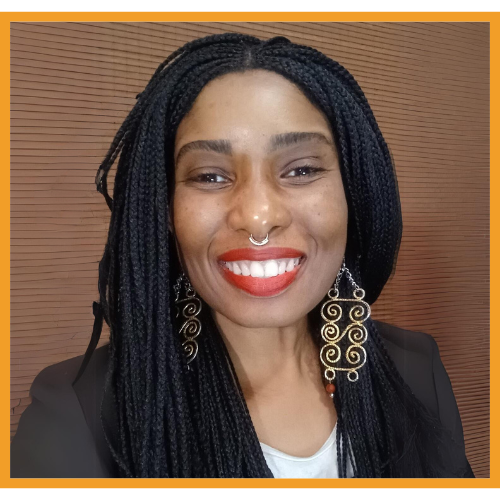
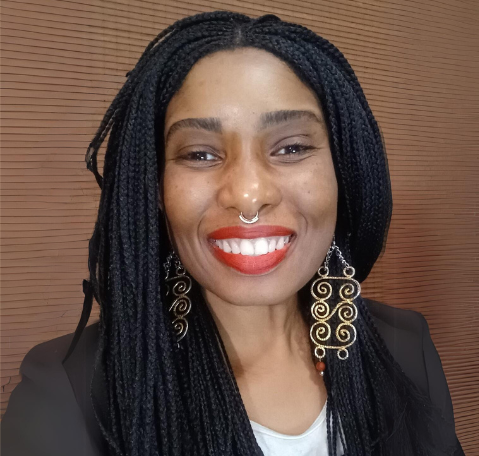
fix image outline

diff --git a/src/pages/Projects.tsx b/src/pages/Projects.tsx
@@ -235,23 +235,17 @@ const Projects = () => {
                   </h3>
 
                   <div className="mt-6 rounded-2xl border border-border bg-card p-6 shadow-card">
-                    <div className="grid gap-8 lg:grid-cols-2">
-                      <div className="space-y-8 lg:pr-6">
+                    <div className="lg:grid lg:grid-cols-2 lg:gap-8">
+                      <div className="space-y-6 lg:space-y-8 lg:pr-6">
                         <FadeInInView amount={0.08} delay={0.08}>
                           <div className="mt-2 flex items-start gap-3">
-                            <div className="min-w-0">
-                              <div className="flex items-start gap-3">
-                                <div className="grid h-9 w-9 flex-none shrink-0 place-items-center rounded-full border border-border bg-background text-xs font-semibold text-foreground shadow-sm">
-                                  1
-                                </div>
-                                <p className="text-2xl font-medium leading-tight text-brand-navy">
-                                  Off-the-shelf toys require:
-                                </p>
-                              </div>
-                              <ul className="mt-3 ml-12 list-disc space-y-1 pl-5 text-2xl leading-tight text-brand-navy">
-                                <li>Fine motor dexterity</li>
-                                <li>Grip strength</li>
-                              </ul>
+                            <div className="grid h-9 w-9 flex-none shrink-0 place-items-center rounded-full border border-border bg-background text-xs font-semibold text-foreground shadow-sm">
+                              1
+                            </div>
+                            <div className="min-w-0 flex-1">
+                              <p className="text-[14px] font-normal leading-[1.35] text-brand-navy lg:text-2xl lg:leading-tight">
+                                Off-the-shelf toys require fine motor dexterity and grip strength.
+                              </p>
                             </div>
                             <img
                               src={`${import.meta.env.BASE_URL}projects/adapt-toy-3.jpeg`}
@@ -259,26 +253,20 @@ const Projects = () => {
                               loading="lazy"
                               width={170}
                               height={170}
-                              className="h-24 w-24 flex-none object-contain"
+                              className="h-20 w-20 flex-none object-contain lg:h-24 lg:w-24"
                             />
                           </div>
                         </FadeInInView>
 
                         <FadeInInView amount={0.08} delay={0.12} className="lg:pl-24 lg:pt-2">
                           <div className="mt-2 flex items-start gap-3">
-                            <div className="min-w-0">
-                              <div className="flex items-start gap-3">
-                                <div className="grid h-9 w-9 flex-none shrink-0 place-items-center rounded-full border border-border bg-background text-xs font-semibold text-foreground shadow-sm">
-                                  2
-                                </div>
-                                <p className="text-2xl font-medium leading-tight text-brand-navy">
-                                  Many kids experience:
-                                </p>
-                              </div>
-                              <ul className="mt-3 ml-12 list-disc space-y-1 pl-5 text-2xl leading-tight text-brand-navy">
-                                <li>Less strength</li>
-                                <li>Limited motor control</li>
-                              </ul>
+                            <div className="grid h-9 w-9 flex-none shrink-0 place-items-center rounded-full border border-border bg-background text-xs font-semibold text-foreground shadow-sm">
+                              2
+                            </div>
+                            <div className="min-w-0 flex-1">
+                              <p className="text-[14px] font-medium leading-[1.35] text-brand-navy lg:text-2xl lg:leading-tight">
+                                Many kids experience less strength and limited motor control.
+                              </p>
                             </div>
                             <img
                               src={`${import.meta.env.BASE_URL}projects/adapt-toy-4.jpeg`}
@@ -286,28 +274,22 @@ const Projects = () => {
                               loading="lazy"
                               width={170}
                               height={170}
-                              className="h-24 w-24 flex-none object-contain"
+                              className="h-20 w-20 flex-none object-contain lg:h-24 lg:w-24"
                             />
                           </div>
                         </FadeInInView>
                       </div>
 
-                      <div className="space-y-8 lg:pt-10 lg:pl-2">
+                      <div className="mt-6 space-y-6 lg:mt-0 lg:space-y-8 lg:pt-10 lg:pl-2">
                         <FadeInInView amount={0.08} delay={0.16}>
                           <div className="mt-2 flex items-start gap-3">
-                            <div className="min-w-0">
-                              <div className="flex items-start gap-3">
-                                <div className="grid h-9 w-9 flex-none shrink-0 place-items-center rounded-full border border-border bg-background text-xs font-semibold text-foreground shadow-sm">
-                                  3
-                                </div>
-                                <p className="text-2xl font-medium leading-tight text-brand-navy">
-                                  For many kids this can mean:
-                                </p>
-                              </div>
-                              <ul className="mt-3 ml-12 list-disc space-y-1 pl-5 text-2xl leading-tight text-brand-navy">
-                                <li>Fatigue</li>
-                                <li>Frustration</li>
-                              </ul>
+                            <div className="grid h-9 w-9 flex-none shrink-0 place-items-center rounded-full border border-border bg-background text-xs font-semibold text-foreground shadow-sm">
+                              3
+                            </div>
+                            <div className="min-w-0 flex-1">
+                              <p className="text-[14px] font-medium leading-[1.35] text-brand-navy lg:text-2xl lg:leading-tight">
+                                For many kids this can mean fatigue and frustration.
+                              </p>
                             </div>
                             <img
                               src={`${import.meta.env.BASE_URL}projects/adapt-toy-6.jpeg`}
@@ -315,23 +297,20 @@ const Projects = () => {
                               loading="lazy"
                               width={170}
                               height={170}
-                              className="h-24 w-24 flex-none object-contain"
+                              className="h-20 w-20 flex-none object-contain lg:h-24 lg:w-24"
                             />
                           </div>
                         </FadeInInView>
 
                         <FadeInInView amount={0.08} delay={0.2} className="lg:pl-16 lg:pt-2">
                           <div className="mt-2 flex items-start gap-3">
-                            <div className="min-w-0">
-                              <div className="flex items-start gap-3">
-                                <div className="grid h-9 w-9 flex-none shrink-0 place-items-center rounded-full border border-border bg-background text-xs font-semibold text-foreground shadow-sm">
-                                  4
-                                </div>
-                                <p className="text-2xl font-medium leading-tight text-brand-navy">
-                                  Button switches are often easier to use, and give more children the ability to
-                                  play.
-                                </p>
-                              </div>
+                            <div className="grid h-9 w-9 flex-none shrink-0 place-items-center rounded-full border border-border bg-background text-xs font-semibold text-foreground shadow-sm">
+                              4
+                            </div>
+                            <div className="min-w-0 flex-1">
+                              <p className="text-[14px] font-medium leading-[1.35] text-brand-navy lg:text-2xl lg:leading-tight">
+                                Button switches are often easier to use, and give more children the ability to play.
+                              </p>
                             </div>
                             <img
                               src={`${import.meta.env.BASE_URL}projects/adapt-toy-5.jpeg`}
@@ -339,7 +318,7 @@ const Projects = () => {
                               loading="lazy"
                               width={170}
                               height={170}
-                              className="h-24 w-24 flex-none object-contain"
+                              className="h-20 w-20 flex-none object-contain lg:h-24 lg:w-24"
                             />
                           </div>
                         </FadeInInView>

diff --git a/src/pages/Team.tsx b/src/pages/Team.tsx
@@ -12,6 +12,8 @@ interface Member {
   nameSuffix?: string;
   role: string;
   major: string;
+  /** Optional explicit slug/path segment when photo filename differs from normalized name. */
+  photoSlug?: string;
 }
 
 const executive: Member[] = [
@@ -36,7 +38,12 @@ const executiveBoard: Member[] = [
   { name: "Dr. Allison Jones", role: "Executive Board", major: "Carle Illinois College of Medicine" },
   { name: "Dr. Ruby Mendenhall", role: "Executive Board", major: "Carle Illinois College of Medicine" },
   { name: "Dr. Deana McDonagh", role: "Executive Board", major: "Carle Illinois College of Medicine" },
-  { name: "Dr. Imanni Sheppard", role: "Executive Board", major: "Carle Illinois College of Medicine" },
+  {
+    name: "Dr. Imanni Sheppard",
+    role: "Executive Board",
+    major: "Carle Illinois College of Medicine",
+    photoSlug: "images/team/immani-sheppard",
+  },
   { name: "Dr. Victor Stams", role: "Executive Board", major: "Carle Illinois College of Medicine" },
 ];
 
@@ -90,8 +97,8 @@ const palette = [
 const Card = ({ m, i }: { m: Member; i: number }) => {
   const [extIndex, setExtIndex] = useState(0);
   const [imageFailed, setImageFailed] = useState(false);
-  const slug = memberSlug(m.name);
-  const photoSrc = `${import.meta.env.BASE_URL}team/${slug}.${photoExtensions[extIndex]}`;
+  const slug = m.photoSlug ?? `team/${memberSlug(m.name)}`;
+  const photoSrc = `${import.meta.env.BASE_URL}${slug}.${photoExtensions[extIndex]}`;
 
   useEffect(() => {
     setExtIndex(0);
